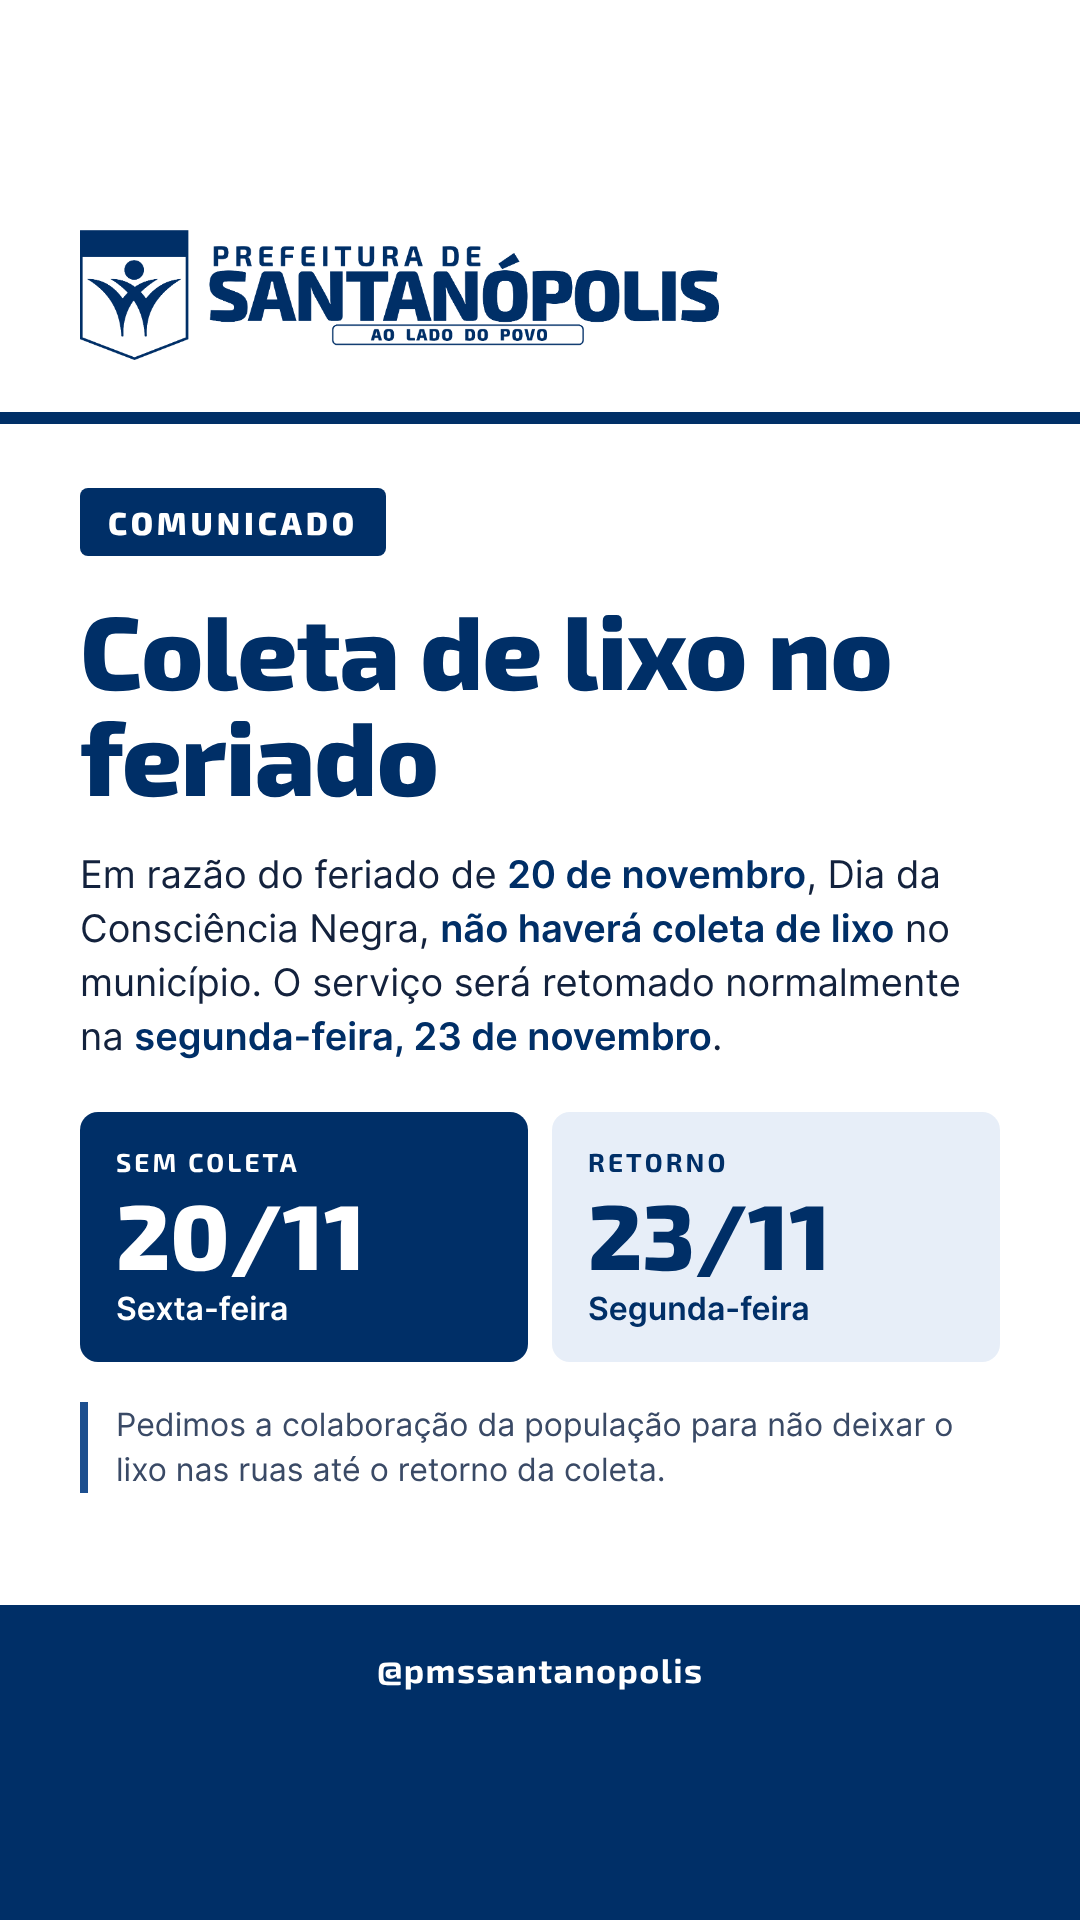
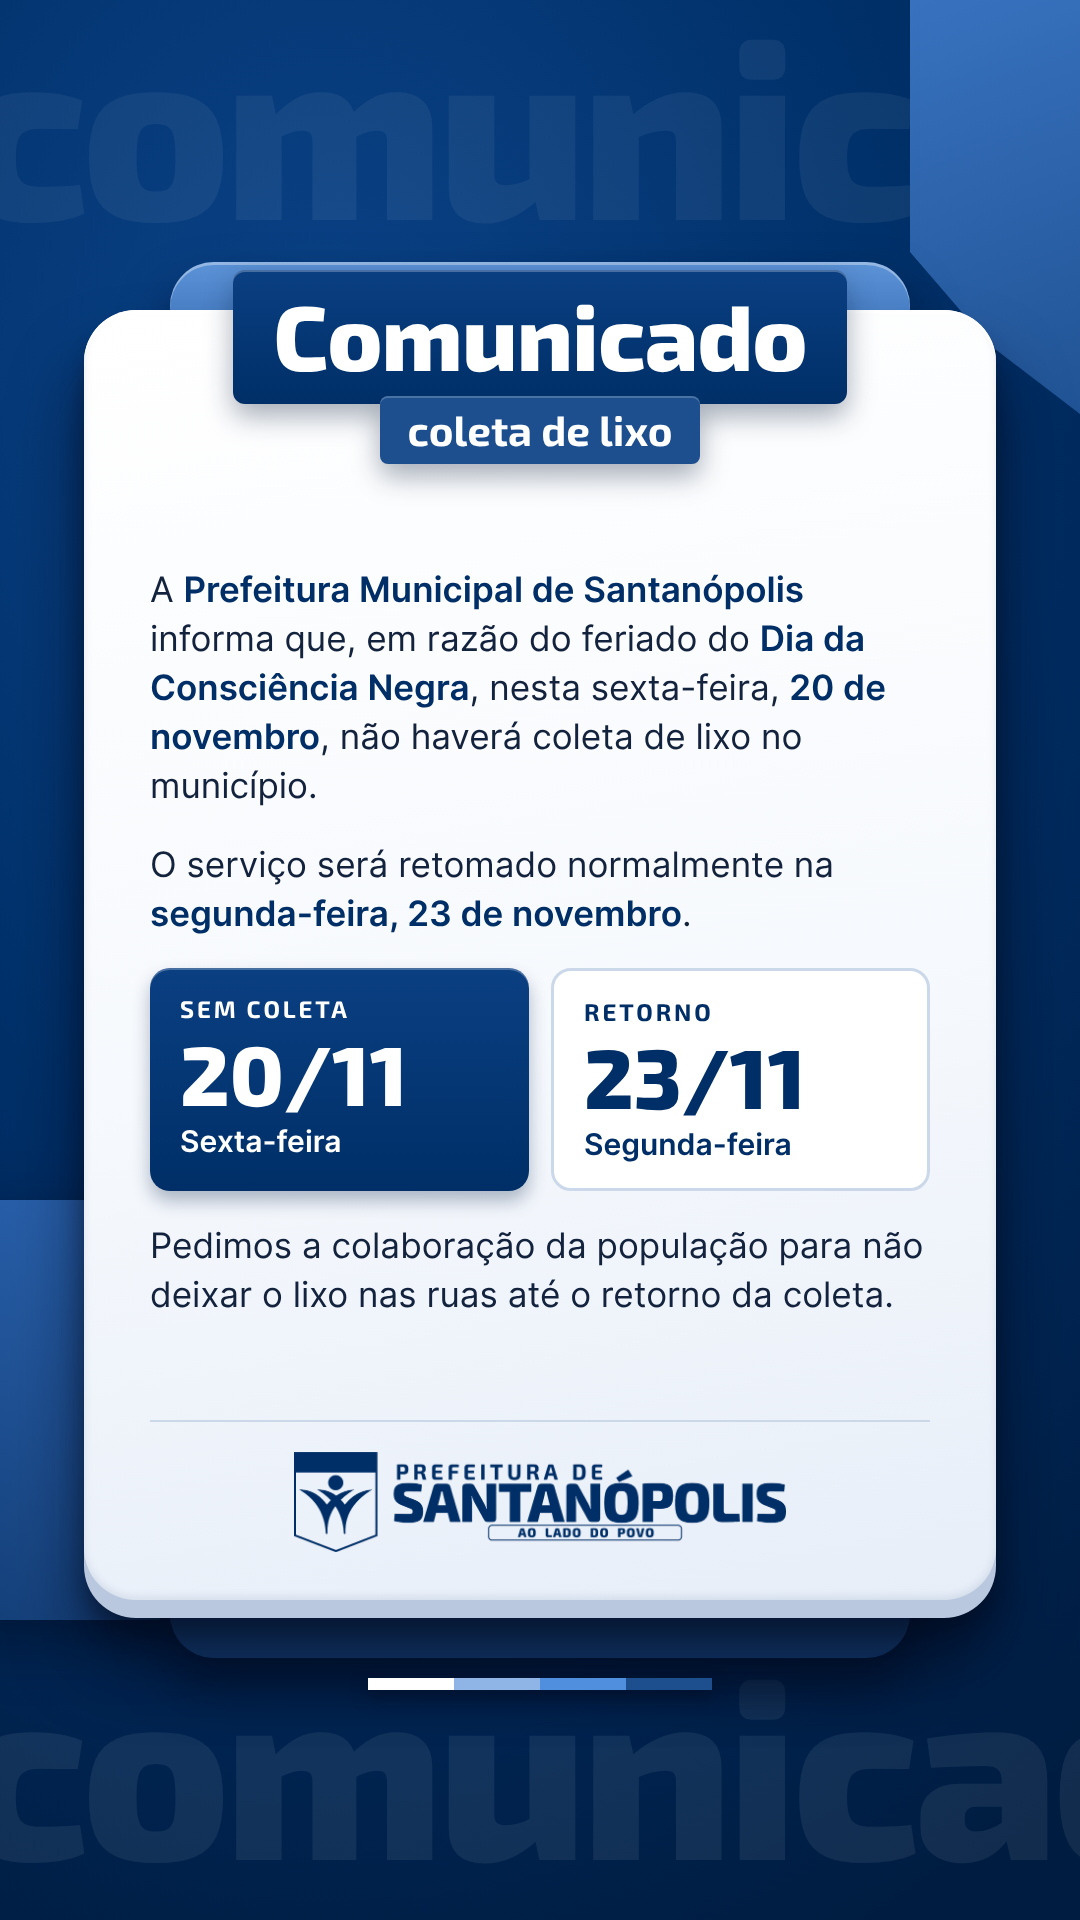
Prefeitura: story da coleta no layout da Nota de Esclarecimento
Claude-Session: https://claude.ai/code/session_01RAcsiBSsBwEQ8EadcvqHGF

diff --git a/clientes/prefeitura-santanopolis/entregas/2026-11-20-story-coleta-feriado/story.html b/clientes/prefeitura-santanopolis/entregas/2026-11-20-story-coleta-feriado/story.html
@@ -1,35 +1,62 @@
 <!doctype html><meta charset="utf-8"><meta name="tamanho" content="1080x1920"><link rel="stylesheet" href="../../../../ferramentas/fontes.css">
-<!-- Story 1080x1920 · Comunicado coleta de lixo no feriado de 20/11. Margens de segurança do story (topo/base ~220px) respeitadas. -->
+<!-- Story 1080x1920 · Comunicado: sem coleta de lixo no feriado de 20/11, retorno 23/11.
+     Layout do card "Nota de esclarecimento" (entrega 2026-11-13) adaptado para story.
+     Cores só da Prefeitura. Sem nome/foto de autoridade (CF art. 37 §1º). -->
 <style>
 :root{--azul:#002F67;--azul2:#1D4F8F;--tinta:#E7EEF8;--txt:#13223D}
 *{box-sizing:border-box;margin:0}
-body{width:1080px;height:1920px;background:#fff;font-family:Inter,sans-serif;color:var(--txt);display:flex;flex-direction:column}
-header{padding:230px 80px 48px;border-bottom:12px solid var(--azul)}
-header img{height:130px}
-main{flex:1;padding:64px 80px 0;display:flex;flex-direction:column;gap:40px}
-.tag{align-self:flex-start;background:var(--azul);color:#fff;font:800 32px/1 "Exo 2";letter-spacing:.12em;padding:18px 28px;border-radius:8px}
-h1{font:800 104px/1.02 "Exo 2";color:var(--azul);letter-spacing:-.01em}
-p{font-size:38px;line-height:1.42}
-p strong{color:var(--azul)}
-.datas{display:grid;grid-template-columns:1fr 1fr;gap:24px;margin-top:8px}
-.d{border-radius:18px;padding:34px 36px;display:flex;flex-direction:column;gap:10px}
-.d.sem{background:var(--azul);color:#fff}
-.d.volta{background:var(--tinta);color:var(--azul)}
-.d b{font:700 26px "Exo 2";letter-spacing:.12em;text-transform:uppercase}
-.d .n{font:800 92px/1 "Exo 2"}
-.d .s{font:600 32px Inter}
-.obs{font-size:32px;color:#3A4A66;border-left:8px solid var(--azul2);padding-left:28px}
-footer{background:var(--azul);color:#fff;padding:44px 80px 230px;text-align:center;font:600 34px "Exo 2";letter-spacing:.04em;margin-top:56px}
+body{width:1080px;height:1920px;position:relative;overflow:hidden;font-family:Inter,sans-serif;color:var(--txt);
+  background:radial-gradient(120% 90% at 30% 20%,#0B4388 0%,#002F67 48%,#001C40 100%)}
+.fantasma{position:absolute;left:-40px;font:800 250px/0.8 "Exo 2";letter-spacing:-.03em;white-space:nowrap;color:#fff;opacity:.055}
+.f1{top:20px}.f2{bottom:60px;opacity:.07}
+.canto{position:absolute;right:-60px;top:-60px;width:230px;height:520px;background:linear-gradient(160deg,#3B76C4,#1D4F8F);
+  clip-path:polygon(0 0,100% 0,100% 100%,35% 78%,0 60%);filter:drop-shadow(-14px 18px 26px rgba(0,10,30,.55))}
+.bloco{position:absolute;left:-70px;bottom:300px;width:230px;height:420px;border-radius:0 46px 0 0;
+  background:linear-gradient(200deg,#2A62AE,#143F78);filter:drop-shadow(10px 18px 28px rgba(0,10,30,.5))}
+.aba{position:absolute;left:170px;right:170px;top:262px;bottom:262px;border-radius:44px;
+  background:linear-gradient(180deg,#5C92D6 0%,#2F68B3 9%,#1D4F8F 91%,#143C72 100%);
+  box-shadow:0 30px 50px rgba(0,8,25,.55),inset 0 3px 0 rgba(255,255,255,.35)}
+.base{position:absolute;left:84px;right:84px;top:322px;bottom:302px;border-radius:52px;background:#B9C8DE;
+  box-shadow:0 44px 70px rgba(0,8,25,.6),0 14px 22px rgba(0,8,25,.4)}
+.painel{position:absolute;left:84px;right:84px;top:310px;bottom:320px;border-radius:52px;padding:0 66px 48px;
+  background:linear-gradient(170deg,#FFFFFF 0%,#F6F9FD 55%,#E7EEF8 100%);
+  box-shadow:inset 0 4px 0 #fff,inset 0 -3px 8px rgba(0,47,103,.10);display:flex;flex-direction:column;align-items:center}
+.titulo{margin-top:-40px;display:flex;flex-direction:column;align-items:center;filter:drop-shadow(0 12px 14px rgba(0,20,50,.35))}
+.titulo b{font:800 92px/1 "Exo 2";letter-spacing:-.01em;color:#fff;background:linear-gradient(180deg,#0A3F82,#002F67);
+  padding:18px 40px 24px;border-radius:12px;box-shadow:inset 0 2px 0 rgba(255,255,255,.25)}
+.titulo span{margin-top:-8px;font:700 42px/1 "Exo 2";color:#fff;background:var(--azul2);padding:12px 28px 14px;border-radius:8px;
+  box-shadow:inset 0 2px 0 rgba(255,255,255,.2)}
+.texto{flex:1;display:flex;flex-direction:column;justify-content:center;gap:30px}
+.texto p{font-size:35px;line-height:1.4}
+.texto strong{font-weight:600;color:var(--azul)}
+.datas{display:grid;grid-template-columns:1fr 1fr;gap:22px}
+.d{border-radius:20px;padding:26px 30px;display:flex;flex-direction:column;gap:8px}
+.d.sem{background:linear-gradient(180deg,#0A3F82,#002F67);color:#fff;box-shadow:0 10px 18px rgba(0,30,70,.3),inset 0 2px 0 rgba(255,255,255,.25)}
+.d.volta{background:#fff;color:var(--azul);border:3px solid #CBD8EA}
+.d b{font:700 24px "Exo 2";letter-spacing:.12em;text-transform:uppercase}
+.d .n{font:800 84px/1 "Exo 2"}
+.d .s{font:600 30px Inter}
+.rodape{width:100%;display:flex;justify-content:center;padding-top:30px;border-top:2px solid #CBD8EA}
+.rodape img{height:100px}
+.barras{position:absolute;left:50%;transform:translateX(-50%);bottom:230px;display:flex;filter:drop-shadow(0 6px 8px rgba(0,8,25,.5))}
+.barras i{width:86px;height:12px}
+.barras i:nth-child(1){background:#fff}.barras i:nth-child(2){background:#8FB4E6}.barras i:nth-child(3){background:#4F8FDD}.barras i:nth-child(4){background:#1D4F8F}
 </style>
-<header><img src="../../identidade/logo-prefeitura-azul-transparente.png" alt=""></header>
-<main>
-  <span class="tag">COMUNICADO</span>
-  <h1>Coleta de lixo no feriado</h1>
-  <p>Em razão do feriado de <strong>20 de novembro</strong>, Dia da Consciência Negra, <strong>não haverá coleta de lixo</strong> no município. O serviço será retomado normalmente na <strong>segunda-feira, 23 de novembro</strong>.</p>
-  <div class="datas">
-    <div class="d sem"><b>Sem coleta</b><span class="n">20/11</span><span class="s">Sexta-feira</span></div>
-    <div class="d volta"><b>Retorno</b><span class="n">23/11</span><span class="s">Segunda-feira</span></div>
+<div class="fantasma f1">comunicado</div>
+<div class="fantasma f2">comunicado</div>
+<div class="canto"></div><div class="bloco"></div>
+<div class="aba"></div><div class="base"></div>
+<section class="painel">
+  <div class="titulo"><b>Comunicado</b><span>coleta de lixo</span></div>
+  <div class="texto" lang="pt-BR">
+    <p>A <strong>Prefeitura Municipal de Santanópolis</strong> informa que, em razão do feriado do <strong>Dia da Consciência Negra</strong>, nesta sexta-feira, <strong>20 de novembro</strong>, não haverá coleta de lixo no município.</p>
+    <p>O serviço será retomado normalmente na <strong>segunda-feira, 23 de novembro</strong>.</p>
+    <div class="datas">
+      <div class="d sem"><b>Sem coleta</b><span class="n">20/11</span><span class="s">Sexta-feira</span></div>
+      <div class="d volta"><b>Retorno</b><span class="n">23/11</span><span class="s">Segunda-feira</span></div>
+    </div>
+    <p>Pedimos a colaboração da população para não deixar o lixo nas ruas até o retorno da coleta.</p>
   </div>
-  <p class="obs">Pedimos a colaboração da população para não deixar o lixo nas ruas até o retorno da coleta.</p>
-</main>
-<footer>@pmssantanopolis</footer>
+  <div class="rodape"><img src="../../identidade/logo-prefeitura-azul-transparente.png" alt=""></div>
+</section>
+<div class="barras"><i></i><i></i><i></i><i></i></div>
